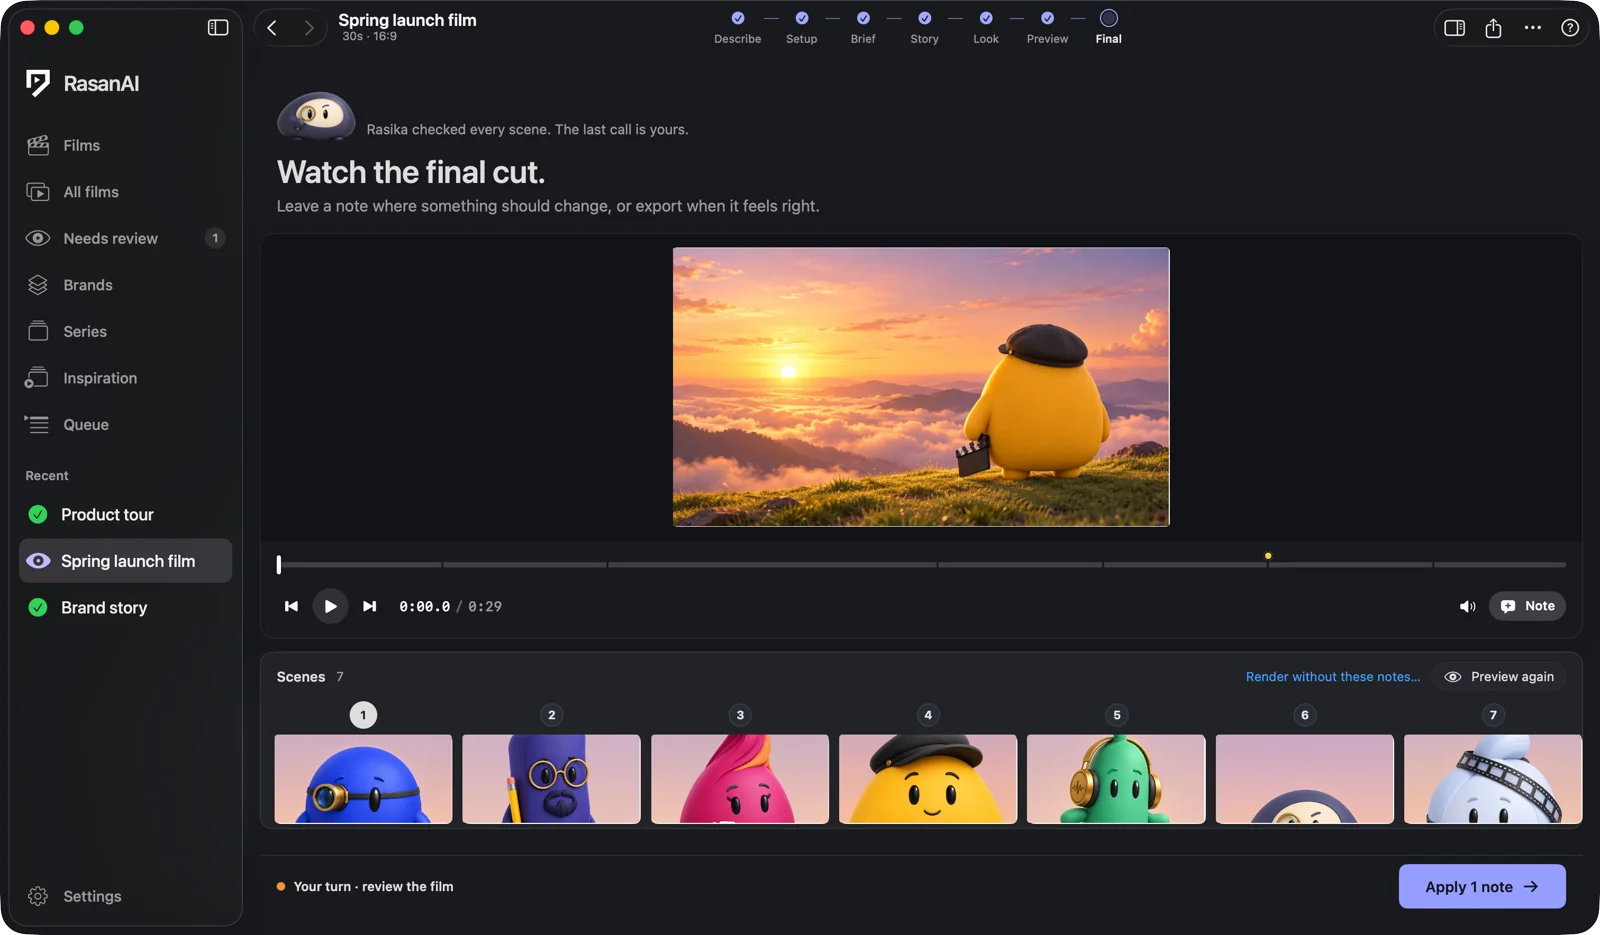
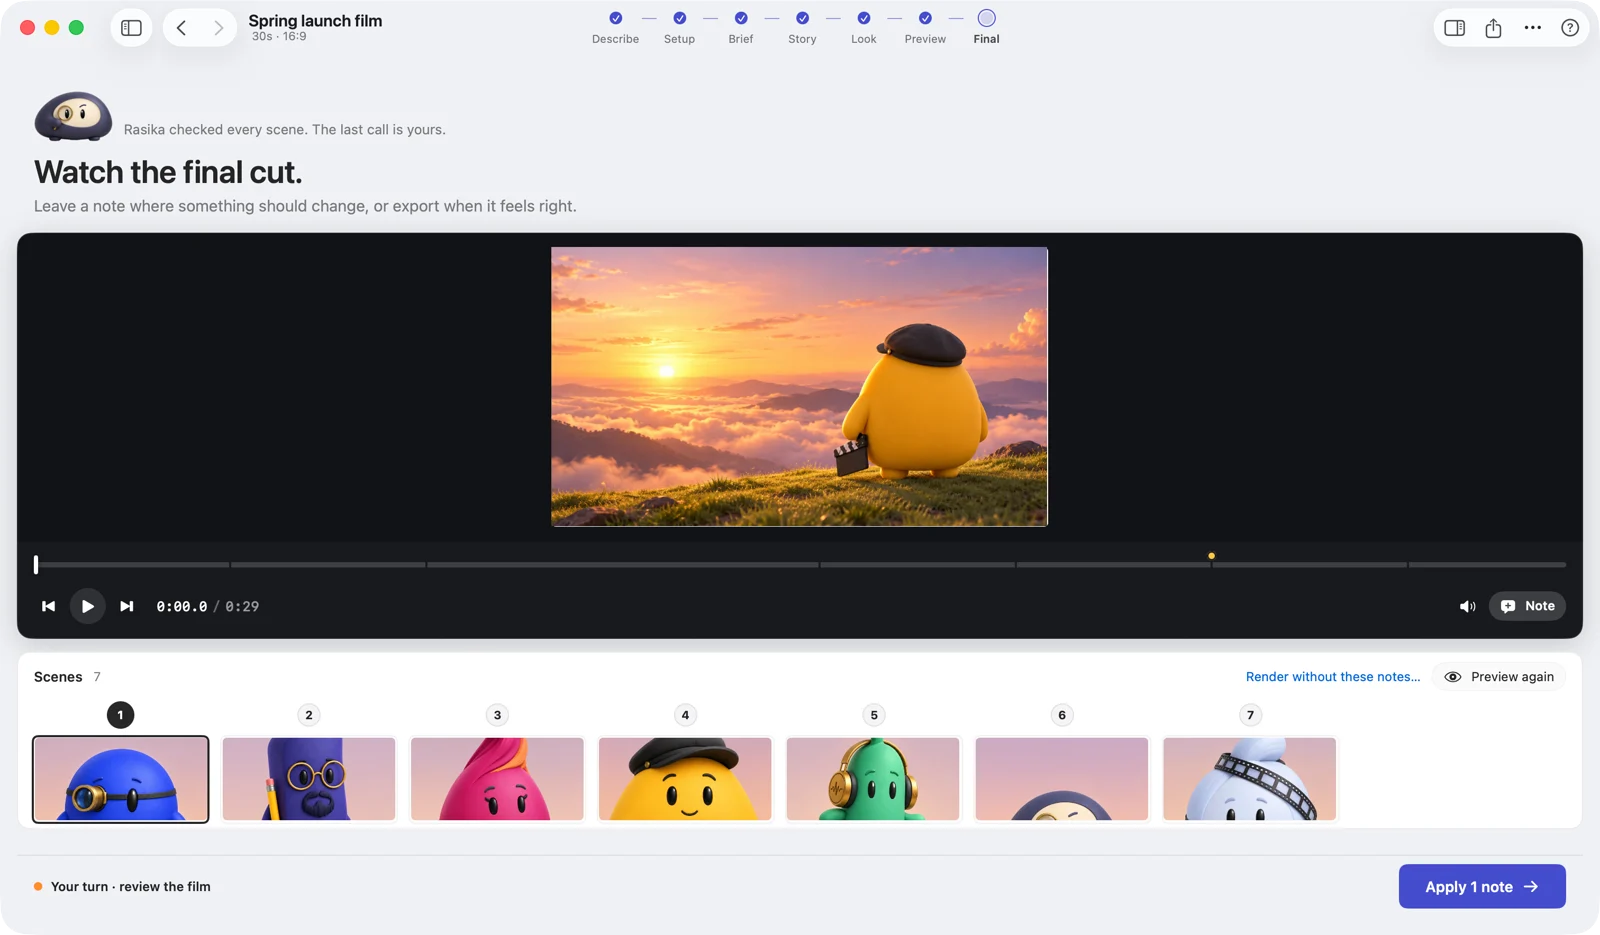
Site: light Studio captures with the sidebar collapsed, shatter speed curve, slower scroll scenes (#164)
- Hero window and the Squeak Mac use light-mode captures of Studio with the sidebar collapsed (placeholder
  film, RasanAI artwork); crew cut-outs re-cut from the light home.
- Shatter: a quick burst, a slow hover with a slight bob, then the letters accelerate away.
- Every pinned scene gets twice the scroll, so the same scroll moves each animation half as far.
- Fix: the hero sits above the crew scene that starts behind the rising window (no blank band at the top).

diff --git a/docs/assets/home.js b/docs/assets/home.js
@@ -148,9 +148,16 @@
       if (fx === "slam") {
         // the shockwave reaches the letters nearest the impact first; each is thrown outward and up, then falls, spinning
         chars.forEach(function (ch, k) {
-          var f = blast[k], t = seg(r, f.at, f.at + .5 + hash(k + 29) * .25);
-          ch.style.transform = t ? "translate3d(" + (f.vx * t).toFixed(1) + "px," + (f.vy * t + f.g * t * t).toFixed(1) + "px,0) rotate(" + (f.spin * t).toFixed(1) + "deg) scale(" + (1 + (f.grow - 1) * t).toFixed(3) + ")" : "";
-          ch.style.opacity = (1 - seg(t, f.grow < 1 ? .35 : .55, 1)).toFixed(3);
+          var f = blast[k], t = seg(r, f.at, f.at + .62 + hash(k + 29) * .2);
+          // the speed curve: a hard burst (a third of the travel in the first fifth, easing out), then a slow hover with a
+          // little bob, then gathering speed away, falling as it goes
+          var u = t < .2 ? .3 * (1 - Math.pow(1 - t / .2, 4))
+            : t < .68 ? .3 + .08 * ((t - .2) / .48)
+            : .38 + 1.2 * Math.pow((t - .68) / .32, 2);
+          var bob = t > .2 && t < .68 ? Math.sin((t - .2) / .48 * Math.PI * 2 + k) * 6 * Math.sin((t - .2) / .48 * Math.PI) : 0;
+          var fall = f.g * .55 * Math.pow(Math.max(0, t - .62) / .38, 2);
+          ch.style.transform = t ? "translate3d(" + (f.vx * u).toFixed(1) + "px," + (f.vy * u + bob + fall).toFixed(1) + "px,0) rotate(" + (f.spin * (u * .8 + .2 * t)).toFixed(1) + "deg) scale(" + (1 + (f.grow - 1) * Math.min(1, u * 1.3)).toFixed(3) + ")" : "";
+          ch.style.opacity = (1 - seg(t, .72, 1)).toFixed(3);
           ch.style.zIndex = f.grow > 1 ? "2" : "";
         });
         layer.style.opacity = (1 - seg(r, .05, .45)).toFixed(3);
@@ -490,12 +497,12 @@
   // crew flight: the hero cards assemble and land on the crew standing on the Home screenshot, then hand off to it
   var homeWin = $(".shot-band .window[data-rise]"), homeImg = homeWin && $("img", homeWin);
   if (heroEl && homeImg) {
-    // percentages of the dark Studio home capture (3024x1768): each box is the full character, measured against the painted-out version
-    var BOX = { tara: [39.649, 43.326, 4.299, 6.165], kavi: [44.048, 37.387, 4.332, 12.104], chitra: [48.479, 36.482, 4.861, 13.009], ra: [53.34, 35.973, 7.374, 13.518], laya: [60.714, 36.312, 4.034, 12.161], rasika: [64.749, 43.891, 5.556, 5.6], mala: [70.337, 40.554, 5.225, 8.937] };
+    // percentages of the Studio home capture (light, sidebar collapsed, 3024x1768): each box is the full character, measured against the painted-out version
+    var BOX = { tara: [32.077, 43.269, 4.233, 6.222], kavi: [36.442, 37.5, 4.398, 11.991], chitra: [40.906, 36.652, 5.06, 12.839], ra: [45.966, 35.86, 7.11, 13.631], laya: [53.142, 36.256, 4.332, 12.217], rasika: [57.474, 44.005, 5.225, 5.486], mala: [62.765, 40.554, 5.225, 8.937] };
     var RIM = 49.5, STAG = .06;   // the prompt box's top edge
     // while the crew fly in, the screenshot shows its prompt with the crew painted out, so no one lands on top of themselves
     var emptyImg = new Image(); emptyImg.className = "shot-empty"; emptyImg.alt = ""; emptyImg.setAttribute("aria-hidden", "true"); emptyImg.decoding = "async";
-    emptyImg.srcset = "img/studio/home-dark-1x-empty.webp 1000w, img/studio/home-dark-2x-empty.webp 2000w"; emptyImg.sizes = homeImg.getAttribute("sizes") || "100vw"; emptyImg.src = "img/studio/home-dark-1x-empty.webp";
+    emptyImg.srcset = "img/studio/home-light-1x-empty.webp 1000w, img/studio/home-light-2x-empty.webp 2000w"; emptyImg.sizes = homeImg.getAttribute("sizes") || "100vw"; emptyImg.src = "img/studio/home-light-1x-empty.webp";
     homeWin.appendChild(emptyImg);
     var setEmpty = function (on) { homeWin.classList.toggle("is-empty", on); };
     var layer = document.createElement("div");
@@ -507,7 +514,7 @@
       var d = parseFloat(c.style.getPropertyValue("--d")) || 1;
       var box = document.createElement("div"); box.className = "cf";
       var card = new Image(); card.className = "cf-card"; card.alt = ""; card.decoding = "async"; card.src = im.getAttribute("src");
-      var cut = new Image(); cut.className = "cf-cut"; cut.alt = ""; cut.decoding = "async"; cut.src = "assets/crew/land/" + m[1] + ".webp?v=3";   // v3: from the dark Studio home
+      var cut = new Image(); cut.className = "cf-cut"; cut.alt = ""; cut.decoding = "async"; cut.src = "assets/crew/land/" + m[1] + ".webp?v=4";   // v4: from the light Studio home
       card.style.opacity = (.6 + d * .4).toFixed(2);
       box.appendChild(card); box.appendChild(cut); layer.appendChild(box);
       fl.push({ c: c, fi: $(".fi", c), box: box, card: card, cut: cut, b: BOX[m[1]], base: .6 + d * .4, sw: 0, tw: 0 });

diff --git a/docs/assets/home.css b/docs/assets/home.css
@@ -79,7 +79,7 @@
   .wshot-band { padding-top: 0; }
 }
 @media (min-width: 900px) and (max-width: 1250px) { .fc { --k: .78; } }
-.pin .hero { height: 190vh; }
+.pin .hero { height: 260vh; position: relative; z-index: 1; }   /* above the crew scene, which starts a screen early behind the window (z 2) */
 .pin .hero .sticky { position: sticky; top: 0; }
 /* the screenshot rises under the pinned hero while the cards fly onto it */
 .pin .shot-band { position: relative; z-index: 2; margin-top: -70vh; }
@@ -122,7 +122,7 @@
 
 /* ---- pinned scene (wide, motion allowed, controller ready) ---- */
 @media (min-width: 900px) and (prefers-reduced-motion: no-preference) {
-  .pin .flow.crew-ready { height: 1420vh; margin-top: -100vh; }   /* starts behind the rising window (.shot-band is above it), so the opening line is uncovered in place */
+  .pin .flow.crew-ready { height: 2840vh; margin-top: -100vh; }   /* starts behind the rising window (.shot-band is above it), so the opening line is uncovered in place */
   .pin .flow.crew-ready > .crew-sticky { position: sticky; top: 0; height: 100vh; height: 100svh; max-width: none; margin: 0; padding: 0; overflow: hidden; display: block; background: var(--rice); }
   /* Rasan's introduction holds the right half while he stands on the left */
   .pin .crew-ready .crew-lead { position: absolute; left: 52%; top: 50%; z-index: 2; width: min(34rem, 40vw); translate: 0 -50%; will-change: transform, opacity; }
@@ -167,7 +167,7 @@
 .beat-word.is-accent { color: var(--rasanai-blue); }
 .beat-char { display: inline-block; position: relative; }
 @media (min-width: 900px) and (prefers-reduced-motion: no-preference) {
-  .pin .beat-host.host-ready { height: 260vh; padding: 0; overflow: clip; }   /* clip, not hidden: hidden would stop the stage from sticking */
+  .pin .beat-host.host-ready { height: 520vh; padding: 0; overflow: clip; }   /* clip, not hidden: hidden would stop the stage from sticking */
   .pin .host-ready > .host-pin { position: sticky; top: 0; height: 100vh; height: 100svh; box-sizing: border-box; display: grid; align-content: center; overflow: hidden; }
   .pin :is(.host-ready, .crew-ready) .beat { position: absolute; inset: 0; z-index: 8; min-height: 0; padding: 0 var(--pad); background: none; pointer-events: none; }
   .pin :is(.host-ready, .crew-ready) .beat-layer { display: block; position: absolute; inset: 0; background: var(--beat-bg); transform-origin: 50% 0; }
@@ -387,7 +387,7 @@
   .pin .host-ready .g-sparks i { position: absolute; left: 50%; top: 50%; width: 10px; height: 10px; margin: -5px; border-radius: 50%; background: var(--rasanai-blue); opacity: 0; }
   .pin .host-ready .g-sparks i:nth-child(3n) { background: #ffc812; width: 14px; height: 14px; margin: -7px; }
   .pin .host-ready .g-sparks i:nth-child(3n+1) { background: #ff972e; border-radius: 3px; }
-  .pin .squeak-scene.host-ready { height: 900vh; }
+  .pin .squeak-scene.host-ready { height: 1800vh; }
   .pin .squeak-scene.host-ready > .host-pin { padding: 0; display: block; }
   .pin .host-ready .sq-stage { position: absolute; inset: 0; max-width: none; margin: 0; display: block; }
   .pin .host-ready .sq-copy { position: absolute; left: max(var(--pad), calc(50vw - 610px)); top: 50%; width: min(30rem, 33vw); height: 70vh; translate: 0 -50%; display: block; }

diff --git a/docs/index.html b/docs/index.html
@@ -35,7 +35,7 @@
 <link rel="stylesheet" href="https://fonts.googleapis.com/css2?family=Anek+Latin:wdth,wght@75..125,300..800&family=Anek+Tamil:wdth,wght@75..125,500..700&family=JetBrains+Mono:wght@400;500&family=Mukta:wght@400;500;600&display=swap" />
 <script src="assets/images.js?v=2"></script>
 <link rel="stylesheet" href="assets/site.css?v=3" />
-<link rel="stylesheet" href="assets/home.css?v=18" />
+<link rel="stylesheet" href="assets/home.css?v=20" />
 </head>
 <body class="home">
 <a class="skip" href="#main">Skip to content</a>
@@ -78,7 +78,7 @@
 </section>
 
 <section class="shot-band"><div class="wrap">
-  <div class="window rise home-win" data-rise><img src="img/studio/home-dark-1x.webp" srcset="img/studio/home-dark-1x.webp 1000w, img/studio/home-dark-2x.webp 2000w" sizes="(min-width:1100px) 900px, 94vw" width="2000" height="1169" alt="RasanAI Studio, the start screen: What would you like to make? The seven crew characters stand on the prompt box, which reads Describe your video, or paste a link, with the steps Describe, Setup, Brief, Story, Look, Preview and Final above and the films in the sidebar." loading="lazy" decoding="async" /></div>
+  <div class="window rise home-win" data-rise><img src="img/studio/home-light-1x.webp" srcset="img/studio/home-light-1x.webp 1000w, img/studio/home-light-2x.webp 2000w" sizes="(min-width:1100px) 900px, 94vw" width="2000" height="1169" alt="RasanAI Studio, the start screen: What would you like to make? The seven crew characters stand on the prompt box, which reads Describe your video, or paste a link, with the steps Describe, Setup, Brief, Story, Look, Preview and Final above." loading="lazy" decoding="async" /></div>
 </div></section>
 
 <!-- 2. THE CREW: Rasan is introduced on his own, takes the centre of a circle, and brings in each specialist, who stops and says what they do; then the circle breaks into depth around the statement, and the camera flies through the crew -->
@@ -190,8 +190,8 @@
           <i class="sq-glare" aria-hidden="true"></i>
           <!-- Studio itself, captured from the app: the Final call before the answer, the finished film after it -->
           <div class="sq-win">
-            <img class="sq-shot sq-shot-look" src="img/studio/real-final-call.webp" width="1600" height="935" alt="" loading="lazy" decoding="async" />
-            <img class="sq-shot sq-shot-next" src="img/studio/real-finished.webp" width="1600" height="935" alt="" loading="lazy" decoding="async" />
+            <img class="sq-shot sq-shot-look" src="img/studio/real-final-call.webp?v=2" width="1600" height="935" alt="" loading="lazy" decoding="async" />
+            <img class="sq-shot sq-shot-next" src="img/studio/real-finished.webp?v=2" width="1600" height="935" alt="" loading="lazy" decoding="async" />
             <i class="sq-land" aria-hidden="true"></i>
           </div>
           <!-- the macOS notification Squeak posts -->
@@ -323,6 +323,6 @@
   </div>
 </div></footer>
 <script src="assets/foot.js?v=1"></script>
-<script src="assets/site.js?v=3"></script><script src="assets/home.js?v=23"></script>
+<script src="assets/site.js?v=3"></script><script src="assets/home.js?v=26"></script>
 </body>
 </html>
